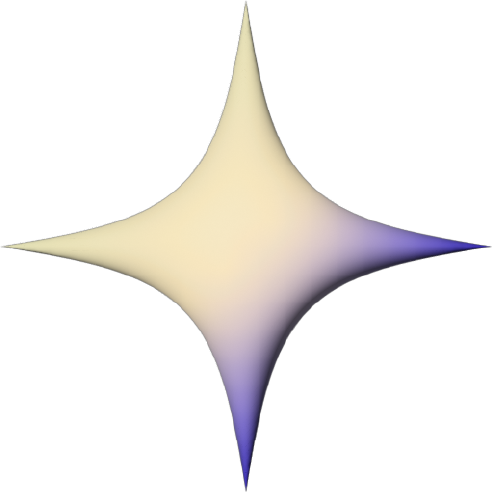
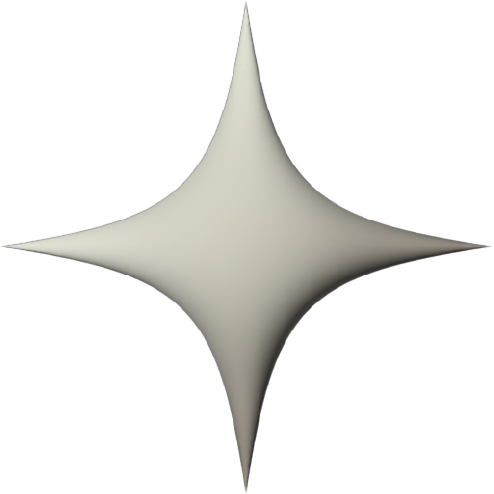
CreatePlanet 페이지 행성 이미지 적용

Changed region(s): [[0.1822, 0.1518, 1.0, 1.0], [0.0304, 0.4555, 0.1518, 0.5162], [0.4858, 0.0, 0.5162, 0.1215]]

diff --git a/src/pages/CreatePlanet.jsx b/src/pages/CreatePlanet.jsx
@@ -10,17 +10,24 @@ import { AiOutlineLeft } from "react-icons/ai";
 import { useDispatch } from "react-redux";
 import { createPlanetThunk } from "../redux/modules/planetSlice";
 
-const CreatePlanet = () => {
+import {
+  planet113,
+  planet223,
+  planet333,
+  planet443,
+  planet553,
+} from "../static/images";
 
+const CreatePlanet = () => {
   // Initial Opacity object, i.e., initla Opacity object for hook
   const initOpState = {
-    firstOpa : 0.4,
-    secondOpa : 0.4,
-    thirdOpa : 0.4,
-    fourthOpa : 0.4,
-    fifthOpa : 0.4
-  }
-  
+    firstOpa: 0.4,
+    secondOpa: 0.4,
+    thirdOpa: 0.4,
+    fourthOpa: 0.4,
+    fifthOpa: 0.4,
+  };
+
   // Hook : To update the clicked planet's opacity
   const [opacity, setOpacity] = useState(initOpState);
 
@@ -29,46 +36,44 @@ const CreatePlanet = () => {
 
   // Redux : dispatch
   const dispatch = useDispatch();
-  
+
   // UseRef : Assigning the clicked planetType for API
   const planetTypeRef = useRef(0);
 
   // Creating current date's planet type => navigate to dlytodo page
   const onClickHandler = () => {
-
-    const currDate = new Date()
-    const parsedCurrDate = `${currDate.getFullYear()}-${String(currDate.getMonth()+1).padStart(2,'0')}-${String(currDate.getDate()).padStart(2,'0')}`
-    dispatch(createPlanetThunk({planetType: planetTypeRef.current, parsedCurrDate}))
+    const currDate = new Date();
+    const parsedCurrDate = `${currDate.getFullYear()}-${String(
+      currDate.getMonth() + 1
+    ).padStart(2, "0")}-${String(currDate.getDate()).padStart(2, "0")}`;
+    dispatch(
+      createPlanetThunk({ planetType: planetTypeRef.current, parsedCurrDate })
+    );
 
     // navigate("/dlytodo")
-  }
+  };
 
   // If one of planets get clicked,
   // assigning the corresponding planetType # to planetType Var
   // update the corresponding img's opacity from 0.4 to 1 with useState
   const onClickPlanetHandler = (type) => {
-
-  if(type === 1){
-    planetTypeRef.current=1;
-    setOpacity({firstOpa : 1})
-  }
-  else if(type === 2){
-    planetTypeRef.current=2;
-    setOpacity({secondOpa: 1})
-  }
-  else if(type === 3){
-    planetTypeRef.current=3
-    setOpacity({thirdOpa: 1})
-  }
-  else if(type === 4){
-    planetTypeRef.current=4
-    setOpacity({fourthOpa: 1})
-  }
-  else{
-    planetTypeRef.current=5
-    setOpacity({fifthOpa: 1})
-  }
-  }
+    if (type === 1) {
+      planetTypeRef.current = 1;
+      setOpacity({ firstOpa: 1 });
+    } else if (type === 2) {
+      planetTypeRef.current = 2;
+      setOpacity({ secondOpa: 1 });
+    } else if (type === 3) {
+      planetTypeRef.current = 3;
+      setOpacity({ thirdOpa: 1 });
+    } else if (type === 4) {
+      planetTypeRef.current = 4;
+      setOpacity({ fourthOpa: 1 });
+    } else {
+      planetTypeRef.current = 5;
+      setOpacity({ fifthOpa: 1 });
+    }
+  };
 
   return (
     <StyContainer>
@@ -78,42 +83,95 @@ const CreatePlanet = () => {
       </StyHeader>
       <StyContent>오늘 키워갈 행성을 골라주세요.</StyContent>
       <StyPlanets>
-        {/* <button onClick={()=>{onClickPlanetHandler(1)}}>
-          <img src={A3} alt="A3" style={{opacity:opacity.firstOpa}} className="first"/>
+        <button
+          onClick={() => {
+            onClickPlanetHandler(1);
+          }}
+        >
+          <img
+            src={planet113}
+            alt="planet113"
+            style={{ opacity: opacity.firstOpa }}
+            className="first"
+          />
         </button>
-        <button onClick={()=>{onClickPlanetHandler(2)}}>
-          <img src={B3} alt="B3" style={{opacity:opacity.secondOpa}} className="second"/>
+        <button
+          onClick={() => {
+            onClickPlanetHandler(2);
+          }}
+        >
+          <img
+            src={planet223}
+            alt="planet223"
+            style={{ opacity: opacity.secondOpa }}
+            className="second"
+          />
         </button>
-        <button onClick={()=>{onClickPlanetHandler(3)}}>
-          <img src={C3} alt="C3" style={{opacity:opacity.thirdOpa}} className="third"/>
+        <button
+          onClick={() => {
+            onClickPlanetHandler(3);
+          }}
+        >
+          <img
+            src={planet333}
+            alt="planet333"
+            style={{ opacity: opacity.thirdOpa }}
+            className="third"
+          />
         </button>
-        <button onClick={()=>{onClickPlanetHandler(4)}}>
-          <img src={D3} alt="D3" style={{opacity:opacity.fourthOpa}} className="fourth"/>
+        <button
+          onClick={() => {
+            onClickPlanetHandler(4);
+          }}
+        >
+          <img
+            src={planet443}
+            alt="planet443"
+            style={{ opacity: opacity.fourthOpa }}
+            className="fourth"
+          />
         </button>
-        <button onClick={()=>{onClickPlanetHandler()}}>
-          <img src={E3} alt="E3" style={{opacity:opacity.fifthOpa}} className="fifth"/>
-        </button> */}
+        <button
+          onClick={() => {
+            onClickPlanetHandler();
+          }}
+        >
+          <img
+            src={planet553}
+            alt="planet553"
+            style={{ opacity: opacity.fifthOpa }}
+            className="fifth"
+          />
+        </button>
       </StyPlanets>
-      {(opacity.firstOpa === 0.4 || opacity.secondOpa === 0.4 || opacity.thirdOpa === 0.4 || opacity.fourthOpa === 0.4 || opacity.fifthOpa === 0.4) ?
-      <StySubmitButton
-        onClick={()=> {onClickHandler()}}
-        height="2em"
-        border="none"
-        color="#FFFFFF"
-        disabled
-      >
-        확인
-      </StySubmitButton>
-      : 
-      <StySubmitButton
-        onClick={()=> {onClickHandler()}}
-        height="2em"
-        border="none"
-        color="#FFFFFF"
-      >
-        확인
-      </StySubmitButton>
-      }
+      {opacity.firstOpa === 0.4 ||
+      opacity.secondOpa === 0.4 ||
+      opacity.thirdOpa === 0.4 ||
+      opacity.fourthOpa === 0.4 ||
+      opacity.fifthOpa === 0.4 ? (
+        <StySubmitButton
+          onClick={() => {
+            onClickHandler();
+          }}
+          height="2em"
+          border="none"
+          color="#FFFFFF"
+          disabled
+        >
+          확인
+        </StySubmitButton>
+      ) : (
+        <StySubmitButton
+          onClick={() => {
+            onClickHandler();
+          }}
+          height="2em"
+          border="none"
+          color="#FFFFFF"
+        >
+          확인
+        </StySubmitButton>
+      )}
     </StyContainer>
   );
 };
@@ -160,7 +218,7 @@ const StyPlanets = styled.div`
 
     img {
       height: 80px;
-      opacity: .4;
+      opacity: 0.4;
     }
   }
 `;

diff --git a/src/static/images/index.js b/src/static/images/index.js
@@ -25,9 +25,38 @@ import profile_default from "./icons/profile_default.svg";
 //-- logos --
 import logo from "./logos/logo.svg";
 
-export { bgleft, bgright, kakaologin, 
-    searchIcon, logo, back_arrow, check_icon, 
-    calendar_icon, calendar_icon_gray, bell_icon, burger_icon, 
-    prev_icon, next_icon, achieved_icon, like_icon_on, like_icon_off, 
-    planet_icon, delete_icon, edit_icon, select_arrow, profile_default,
+// planets
+import planet113 from "./planets/planet113.png";
+import planet223 from "./planets/planet223.png";
+import planet333 from "./planets/planet333.png";
+import planet443 from "./planets/planet443.png";
+import planet553 from "./planets/planet553.png";
+
+export {
+  bgleft,
+  bgright,
+  kakaologin,
+  searchIcon,
+  logo,
+  back_arrow,
+  check_icon,
+  calendar_icon,
+  calendar_icon_gray,
+  bell_icon,
+  burger_icon,
+  prev_icon,
+  next_icon,
+  achieved_icon,
+  like_icon_on,
+  like_icon_off,
+  planet_icon,
+  delete_icon,
+  edit_icon,
+  select_arrow,
+  profile_default,
+  planet113,
+  planet223,
+  planet333,
+  planet443,
+  planet553,
 };
